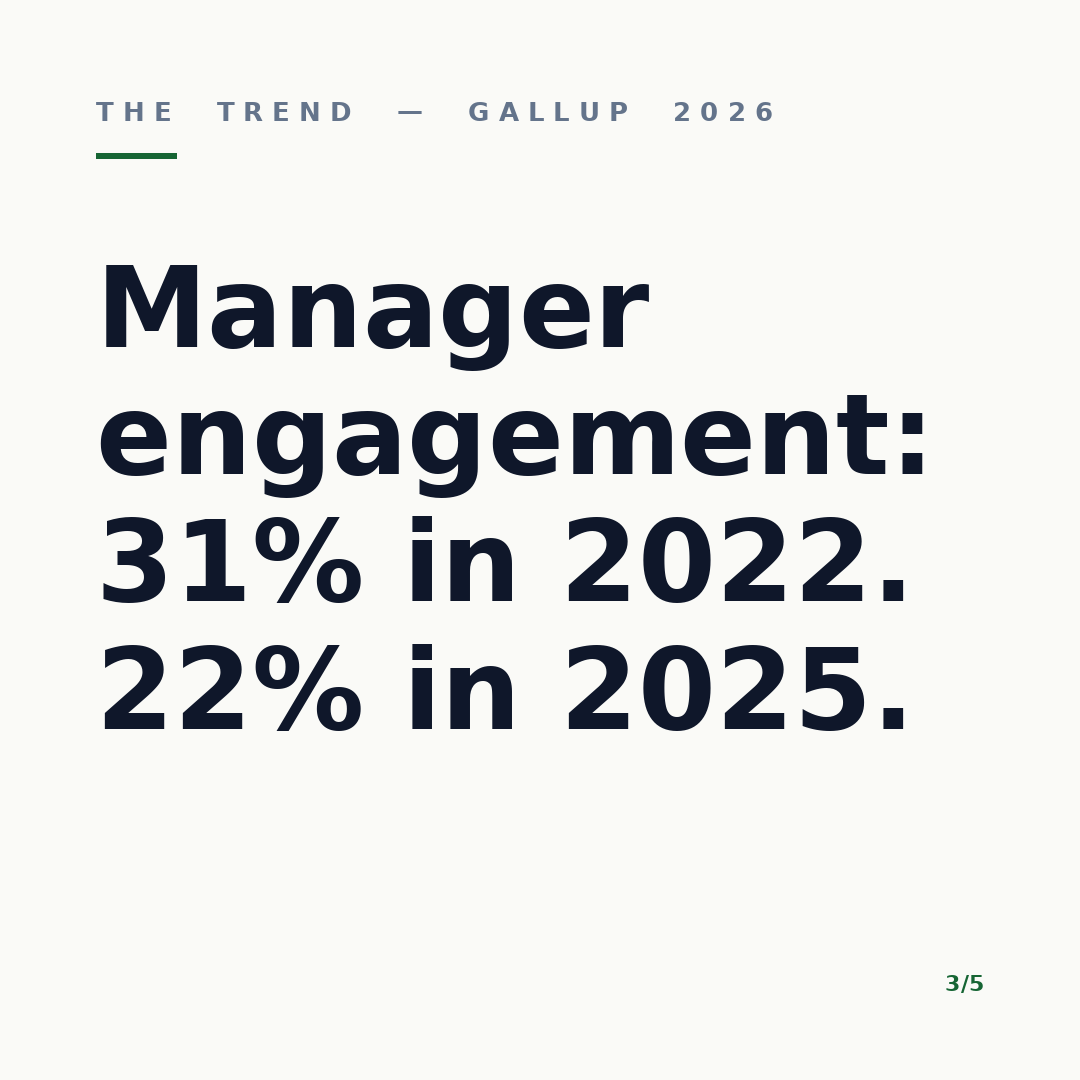
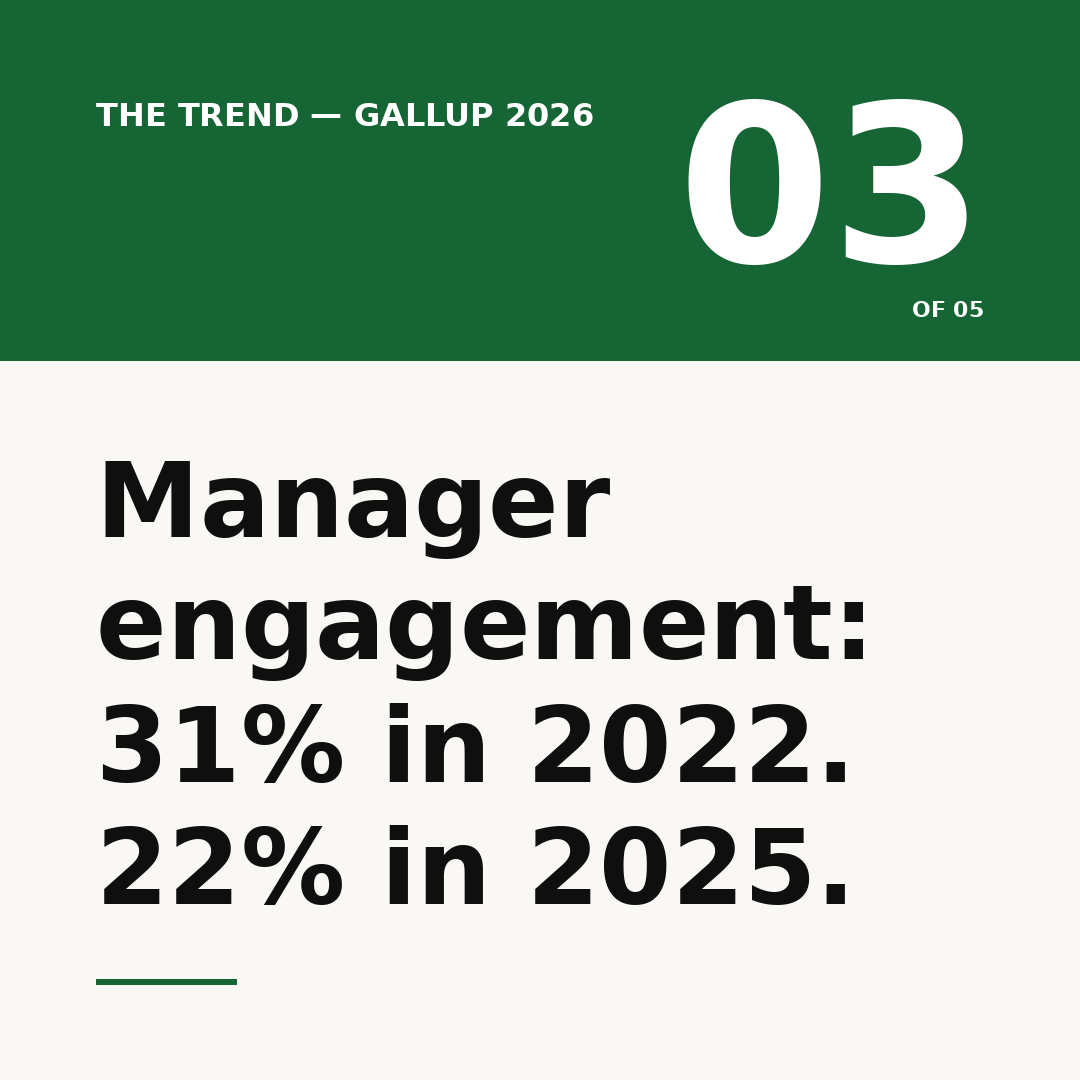
Switch carousel design to Style C (bold editorial) as locked default
Generator rewritten with top color band carrying the topic tag (white)
and oversized slide number, body area holds a large sans-serif headline
on cream, anchored by a short accent rule. Regenerated today's 15
carousel slides plus the 3 single-image cover versions in the new
style. Removed the older minimalist style code; bold is the day-to-day
default going forward.

diff --git a/scripts/generate_post_image.py b/scripts/generate_post_image.py
@@ -1,10 +1,13 @@
 #!/usr/bin/env python3
-"""Generate a minimalist 1080x1080 LinkedIn post image.
+"""Generate a bold editorial 1080x1080 LinkedIn carousel slide.
 
-Style: off-white background, small uppercase category tag, short accent
-bar, then a single bold headline that auto-fits the canvas. Designed
-for HR best-practices posts — no stock photos, no decoration, just
-type. Outputs PNG (the format LinkedIn accepts for image attachments).
+Style: top color band carrying the topic tag (white) and an oversized
+slide number (white), with a generous cream body area below holding a
+big sans-serif headline. A short accent rule anchors the bottom.
+
+This is the locked default style for the daily best-practices flow —
+chosen for scroll-stopping presence in the LinkedIn feed and strong
+visual hierarchy across a 5-slide swipe.
 """
 import argparse
 import sys
@@ -17,10 +20,12 @@ except ImportError:
 
 CANVAS = 1080
 PADDING = 96
+BAND_H = 360
 
-BG = (250, 250, 247)        # warm off-white
-INK = (15, 23, 42)          # near-black navy
-MUTED = (100, 116, 139)     # slate
+BG = (250, 248, 244)
+INK = (15, 15, 15)
+WHITE = (255, 255, 255)
+MUTED = (108, 116, 124)
 
 ACCENTS = {
     "navy": (30, 58, 138),
@@ -34,7 +39,6 @@ FONT_BOLD_CANDIDATES = [
     "/usr/share/fonts/truetype/dejavu/DejaVuSans-Bold.ttf",
     "/usr/share/fonts/truetype/liberation/LiberationSans-Bold.ttf",
     "/Library/Fonts/Arial Bold.ttf",
-    "/System/Library/Fonts/Helvetica.ttc",
 ]
 FONT_REG_CANDIDATES = [
     "/usr/share/fonts/truetype/dejavu/DejaVuSans.ttf",
@@ -54,8 +58,7 @@ def wrap(draw, text, font, max_width):
     words = text.split()
     lines, cur = [], []
     for w in words:
-        trial = " ".join(cur + [w])
-        if draw.textlength(trial, font=font) <= max_width:
+        if draw.textlength(" ".join(cur + [w]), font=font) <= max_width:
             cur.append(w)
         else:
             if cur:
@@ -70,11 +73,11 @@ def wrap(draw, text, font, max_width):
 
 
 def fit_headline(draw, text, max_w, max_h):
-    for size in range(112, 40, -4):
+    for size in range(124, 44, -4):
         font = load_font(FONT_BOLD_CANDIDATES, size)
         lines = wrap(draw, text, font, max_w)
         bbox = draw.textbbox((0, 0), "Hg", font=font)
-        line_h = (bbox[3] - bbox[1]) * 1.2
+        line_h = (bbox[3] - bbox[1]) * 1.25
         total_h = line_h * len(lines)
         widths_ok = all(draw.textlength(ln, font=font) <= max_w for ln in lines)
         if total_h <= max_h and widths_ok and len(lines) <= 6:
@@ -82,13 +85,25 @@ def fit_headline(draw, text, max_w, max_h):
     return font, lines, line_h
 
 
+def parse_slide(slide_arg):
+    if not slide_arg:
+        return None, None
+    parts = slide_arg.split("/")
+    if len(parts) != 2:
+        return None, None
+    try:
+        return int(parts[0]), int(parts[1])
+    except ValueError:
+        return None, None
+
+
 def main() -> int:
     p = argparse.ArgumentParser(description=__doc__)
-    p.add_argument("--headline", required=True, help="The main line of type. Will auto-wrap and auto-size.")
-    p.add_argument("--tag", default="HR INSIGHTS", help="Small uppercase tag at the top.")
+    p.add_argument("--headline", required=True, help="The main line of type. Auto-wraps and auto-sizes.")
+    p.add_argument("--tag", default="HR INSIGHTS", help="Topic tag, rendered uppercase in the top band.")
     p.add_argument("--accent", default="navy", choices=sorted(ACCENTS.keys()))
-    p.add_argument("--footer", default="", help="Optional small text bottom-left (e.g. a brand mark).")
-    p.add_argument("--slide", default="", help="Optional slide indicator like '1/5'. Renders bottom-right in accent color.")
+    p.add_argument("--slide", default="", help="Optional slide indicator like '1/5'. Renders as a large white number in the band.")
+    p.add_argument("--footer", default="", help="Optional small text bottom-left in the body area.")
     p.add_argument("--output", required=True)
     args = p.parse_args()
 
@@ -96,43 +111,57 @@ def main() -> int:
     draw = ImageDraw.Draw(img)
     accent = ACCENTS[args.accent]
 
-    tag_font = load_font(FONT_BOLD_CANDIDATES, 26)
-    tag = args.tag.upper().strip()
-    spaced = " ".join(list(tag.replace(" ", "  ")))
-    draw.text((PADDING, PADDING), spaced, font=tag_font, fill=MUTED)
-    tag_bbox = draw.textbbox((PADDING, PADDING), spaced, font=tag_font)
+    draw.rectangle([0, 0, CANVAS, BAND_H], fill=accent)
 
-    line_y = tag_bbox[3] + 32
-    draw.rectangle([PADDING, line_y, PADDING + 80, line_y + 5], fill=accent)
+    tag_font = load_font(FONT_BOLD_CANDIDATES, 32)
+    draw.text((PADDING, PADDING), args.tag.upper().strip(), font=tag_font, fill=WHITE)
 
-    headline_top = line_y + 90
-    footer_h = 80 if args.footer else 0
+    slide_num, slide_total = parse_slide(args.slide)
+    if slide_num is not None and slide_total is not None:
+        sn_font = load_font(FONT_BOLD_CANDIDATES, 220)
+        sn_text = f"{slide_num:02d}"
+        sn_w = draw.textlength(sn_text, font=sn_font)
+        sn_bbox = draw.textbbox((0, 0), sn_text, font=sn_font)
+        sn_h = sn_bbox[3] - sn_bbox[1]
+        draw.text(
+            (CANVAS - PADDING - sn_w, (BAND_H - sn_h) // 2 - 40),
+            sn_text,
+            font=sn_font,
+            fill=WHITE,
+        )
+        of_font = load_font(FONT_BOLD_CANDIDATES, 22)
+        of_text = f"OF {slide_total:02d}"
+        of_w = draw.textlength(of_text, font=of_font)
+        draw.text(
+            (CANVAS - PADDING - of_w, BAND_H - 64),
+            of_text,
+            font=of_font,
+            fill=WHITE,
+        )
+
+    head_top = BAND_H + 80
+    footer_h = 60 if args.footer else 40
     max_w = CANVAS - 2 * PADDING
-    max_h = CANVAS - headline_top - PADDING - footer_h
+    max_h = CANVAS - head_top - PADDING - footer_h
 
     font, lines, line_h = fit_headline(draw, args.headline, max_w, max_h)
-    y = headline_top
+    y = head_top
     for ln in lines:
         draw.text((PADDING, y), ln, font=font, fill=INK)
         y += line_h
 
+    draw.rectangle(
+        [PADDING, CANVAS - PADDING - 5, PADDING + 140, CANVAS - PADDING],
+        fill=accent,
+    )
+
     if args.footer:
         f_font = load_font(FONT_REG_CANDIDATES, 22)
         draw.text(
-            (PADDING, CANVAS - PADDING - 14),
+            (PADDING + 160, CANVAS - PADDING - 14),
             args.footer,
             font=f_font,
             fill=MUTED,
-        )
-
-    if args.slide:
-        s_font = load_font(FONT_BOLD_CANDIDATES, 22)
-        sw = draw.textlength(args.slide, font=s_font)
-        draw.text(
-            (CANVAS - PADDING - sw, CANVAS - PADDING - 14),
-            args.slide,
-            font=s_font,
-            fill=accent,
         )
 
     out = Path(args.output)
